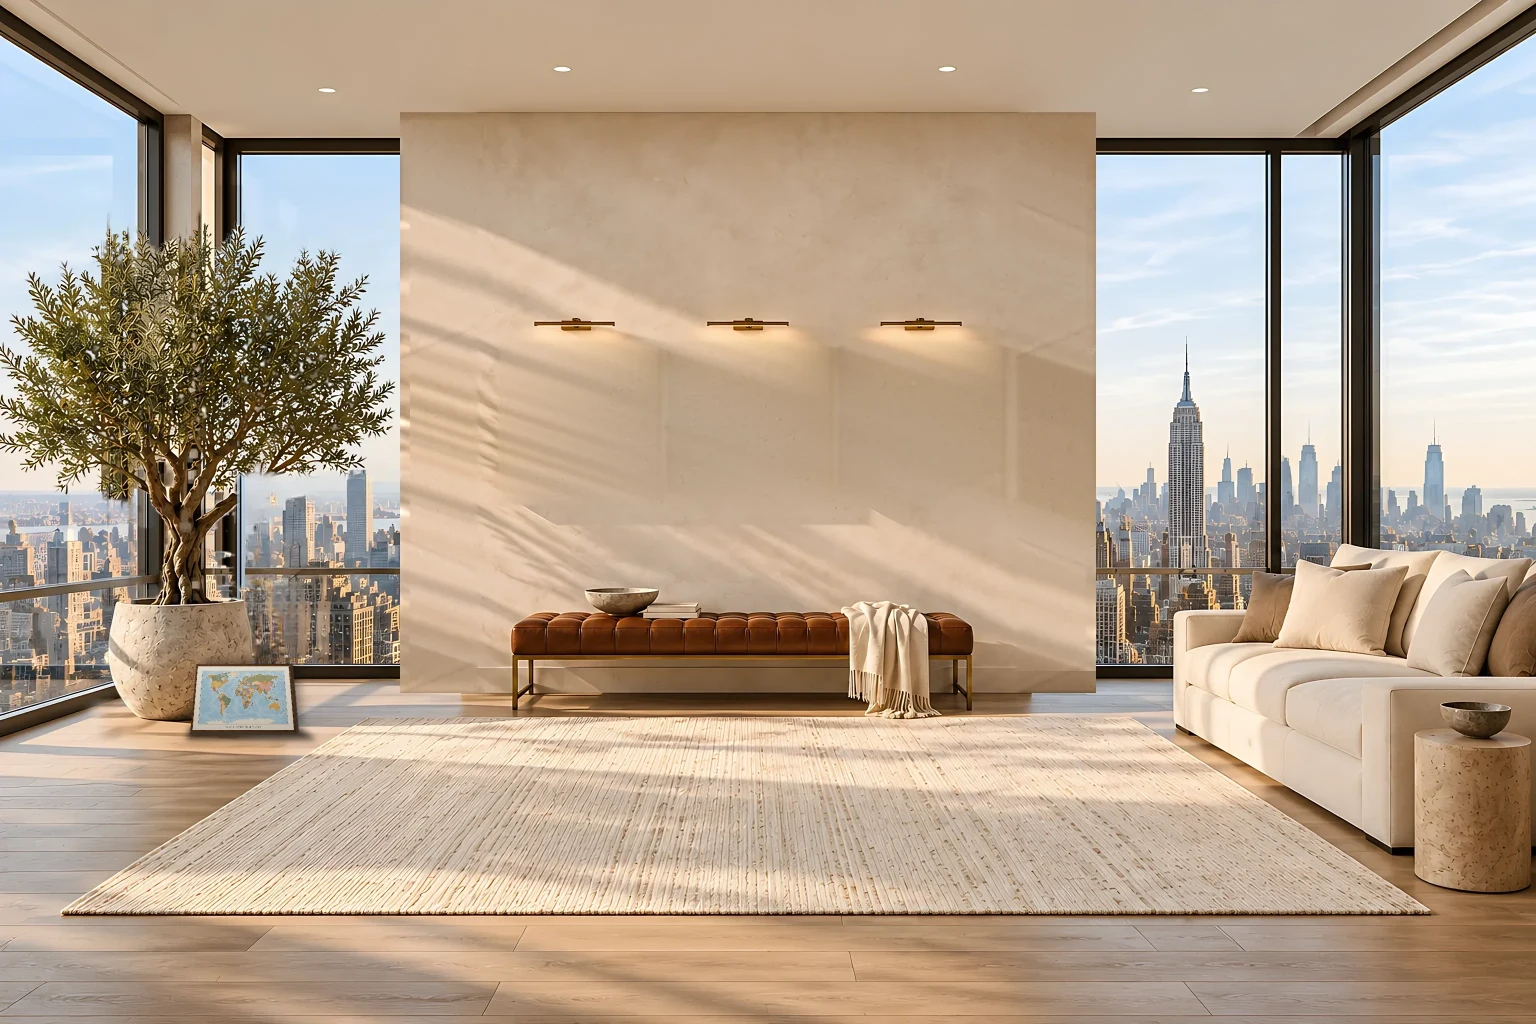
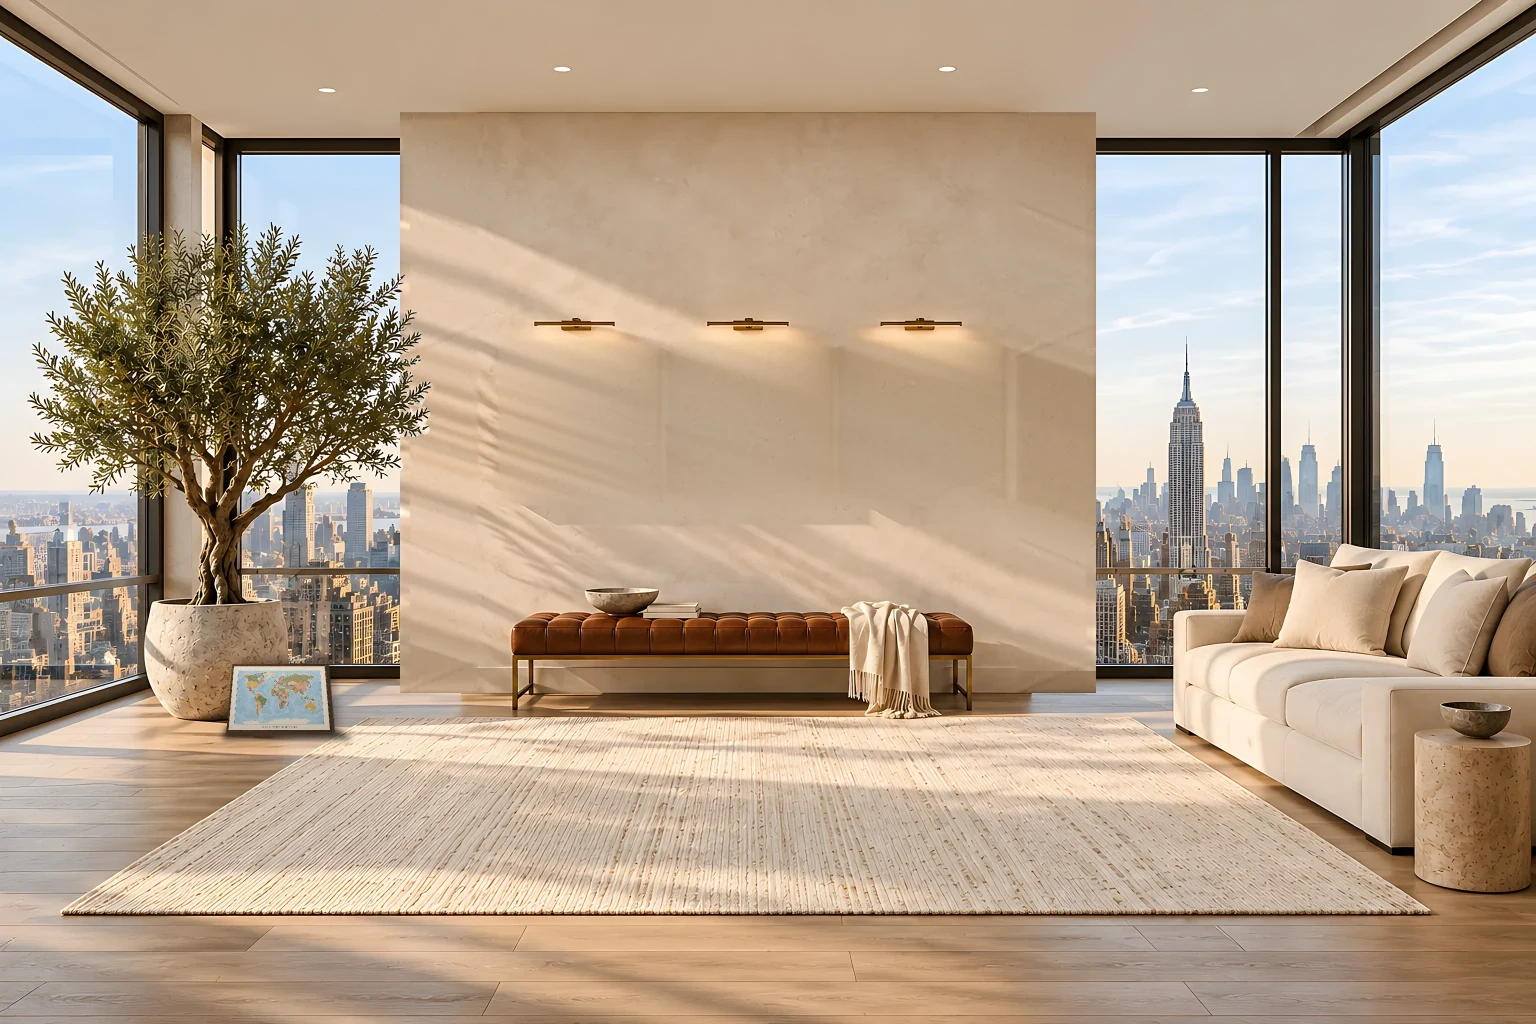
Revert "Home: move the olive tree left so the canopy ends before the wall (#10)"
Femi: a shadow shows on the tree. Back to 3c461af.

Claude-Session: https://claude.ai/code/session_01Q2iX8U4MkKUcYxVfpZrcab

Changed region(s): [[0.0, 0.1875, 0.2812, 0.75]]

diff --git a/src/content/scene.ts b/src/content/scene.ts
@@ -57,12 +57,12 @@ export const MAP = {
   label: '30+ countries and 60+ cities',
   href: '/about#outside-work',
   /** The leaning frame plus its caption on the floor below. */
-  hitbox: [178, 658, 130, 120] as Rect,
-  glow: [160, 636, 166, 118] as Rect,
+  hitbox: [214, 658, 130, 120] as Rect,
+  glow: [196, 636, 166, 118] as Rect,
 }
 
-/** The olive tree's canopy and trunk, down to the planter rim (RoomTree, docs/asset-lock/scripts/tree2.py; moved left by treeshift2.py, DL-56). */
-export const TREE_BOX: Rect = [0, 180, 400, 424]
+/** The olive tree's canopy and trunk, down to the planter rim (RoomTree, docs/asset-lock/scripts/tree.py). */
+export const TREE_BOX: Rect = [0, 180, 460, 424]
 
 export const pct = (v: number, of: number) => `${(v / of) * 100}%`
 export const rectStyle = ([x, y, w, h]: Rect) => ({ left: pct(x, SCENE.w), top: pct(y, SCENE.h), width: pct(w, SCENE.w), height: pct(h, SCENE.h) })

diff --git a/docs/asset-lock/scripts/lean.py b/docs/asset-lock/scripts/lean.py
@@ -3,14 +3,13 @@ The frame leans back slightly (perspective), is lit like the planter's sunward f
 contact shadow on the floor and on the pot. Usage: lean.py plate_dir map.webp"""
 import cv2, numpy as np, sys
 D, MAPSRC = sys.argv[1:3]; S = 2
-DX = int(sys.argv[3]) if len(sys.argv) > 3 else 0      # the tree and pot moved left by -DX master px (treeshift2.py)
 art = cv2.imread(MAPSRC)[24:995, 18:1518].astype(np.float32)          # the frame itself
 h0, w0 = art.shape[:2]
 # target quad (master px): bottom on the floor, top leaning back against the pot
-Q = (np.float32([[232, 664], [326, 664], [332, 732], [226, 732]]) + np.float32([DX, 0])) * S   # propped against the pot's right side
+Q = np.float32([[232, 664], [326, 664], [332, 732], [226, 732]]) * S   # propped against the pot's right side
 src = np.float32([[0, 0], [w0, 0], [w0, h0], [0, h0]])
 M = cv2.getPerspectiveTransform(src, Q)
-POT = (200 + DX, 640, 80, 60)                                             # planter face used to read the light (master)
+POT = (200, 640, 80, 60)                                             # planter face used to read the light (master)
 ref = None
 for mode in ('morning', 'golden', 'night'):
     p = f'{D}/{mode}-3072.webp'; im = cv2.imread(p).astype(np.float32); H, W = im.shape[:2]
@@ -20,7 +19,7 @@ for mode in ('morning', 'golden', 'night'):
     Y = float(light @ np.array([.0722, .7152, .2126])); light = Y * (light / Y) ** .4
     # shadows first: contact shadow on the floor behind/below the frame, and the frame's shade on the pot to its left
     sh = np.zeros((H, W), np.float32)
-    cv2.fillConvexPoly(sh, np.int32([[(226 + DX) * S, 727 * S], [(334 + DX) * S, 727 * S], [(352 + DX) * S, 739 * S], [(222 + DX) * S, 739 * S]]), 1)
+    cv2.fillConvexPoly(sh, np.int32([[226 * S, 727 * S], [334 * S, 727 * S], [352 * S, 739 * S], [222 * S, 739 * S]]), 1)
     sh = cv2.GaussianBlur(sh, (0, 0), 3 * S) * .7
     pot_sh = np.zeros((H, W), np.float32); cv2.fillConvexPoly(pot_sh, np.int32(Q + np.float32([6 * S, -3 * S])), 1)
     sh = np.maximum(sh, cv2.GaussianBlur(pot_sh, (0, 0), 5 * S) * .42)   # occlusion where the frame rests on the pot
@@ -39,5 +38,5 @@ for mode in ('morning', 'golden', 'night'):
     cv2.imwrite(p, np.clip(out, 0, 255).astype(np.uint8), [cv2.IMWRITE_WEBP_QUALITY, 88])
     for wd in (2048, 1536):
         cv2.imwrite(f'{D}/{mode}-{wd}.webp', cv2.resize(np.clip(out, 0, 255), (wd, wd * 2 // 3), interpolation=cv2.INTER_AREA).astype(np.uint8), [cv2.IMWRITE_WEBP_QUALITY, 88])
-    cv2.imwrite(f'{D}/lean-{mode}.jpg', np.clip(out, 0, 255).astype(np.uint8)[1150:1560, max(0, 250 + 2 * DX):900 + 2 * DX], [1, 88])
+    cv2.imwrite(f'{D}/lean-{mode}.jpg', np.clip(out, 0, 255).astype(np.uint8)[1150:1560, 250:900], [1, 88])
     print(mode, 'light', np.round(light, 3))

diff --git a/docs/decision-log.md b/docs/decision-log.md
@@ -60,4 +60,3 @@ Newest last. Each entry records the decision, why it was made and what would rev
 | DL-53 | 2026-10-15 | 5 | **Résumé available on request, behind a passcode.** `/resume` carries no résumé content until a server action accepts the passcode. The repo stores only a salted scrypt hash, never the passcode, and `RESUME_PASSCODE` in the hosting environment can replace it. Wrong attempts are slowed. Unlock lasts for the browser tab. The page is `noindex`, with a "Request access" email. The public-PDF shortcut on Home is removed, so the Home strip links to `/resume`. A résumé PDF must never go in `public/`. | Femi: "put the resume behind a pass, it should be available upon request" | — |
 | DL-54 | 2026-10-15 | 5 | **Request access opens a form** (full name, email, phone; all required; honeypot for bots). It's delivered to femi@femifalade.com by **FormSubmit** (formsubmit.co: no account or key; the first submission triggers a one-time activation email). The subject is "Resume request from [name]", with reply-to set to the requester. A mailto fallback appears on failure. Separately, **"Résumé" becomes "Resume" site-wide.** | Femi: the request should be a form with name, email and phone sent to his email; remove the accents | Femi prefers another email service (e.g. Resend with an API key) |
 | DL-55 | 2026-10-15 | 6 | The light selector shows only the New York clock as a time. The options are **Morning, Afternoon, Night**, with no hour ranges, and "Golden hour" is renamed **Afternoon**. The internal light id stays `golden`, so assets and saved choices are unchanged. | Femi: "Only keep the current time in NYC… call golden hour 'afternoon'" | — |
-| DL-56 | 2026-10-20 | 6/7 | **The olive tree and planter move 36 px left** (master), so the canopy finishes in front of the window with clear glass before the wall. The wall stays x 400–1096 and the earlier breeze is unchanged. The window behind the old position is redrawn by LaMa inpainting per light (window column and post carried straight down), and the travel map moves with the planter. The breeze sprites now sit over that clean window, so swaying leaves reveal real glass, not smears. The sky masks exclude the moved canopy. Scripts: treeshift2.py → wall2.py → frames.py → lean.py (−36) → tree2.py. | Femi: the leaves spilled onto the wall and the tree didn't look realistic enough. He chose "Move tree left" over narrowing the wall (PR #8 was reverted). | — |
